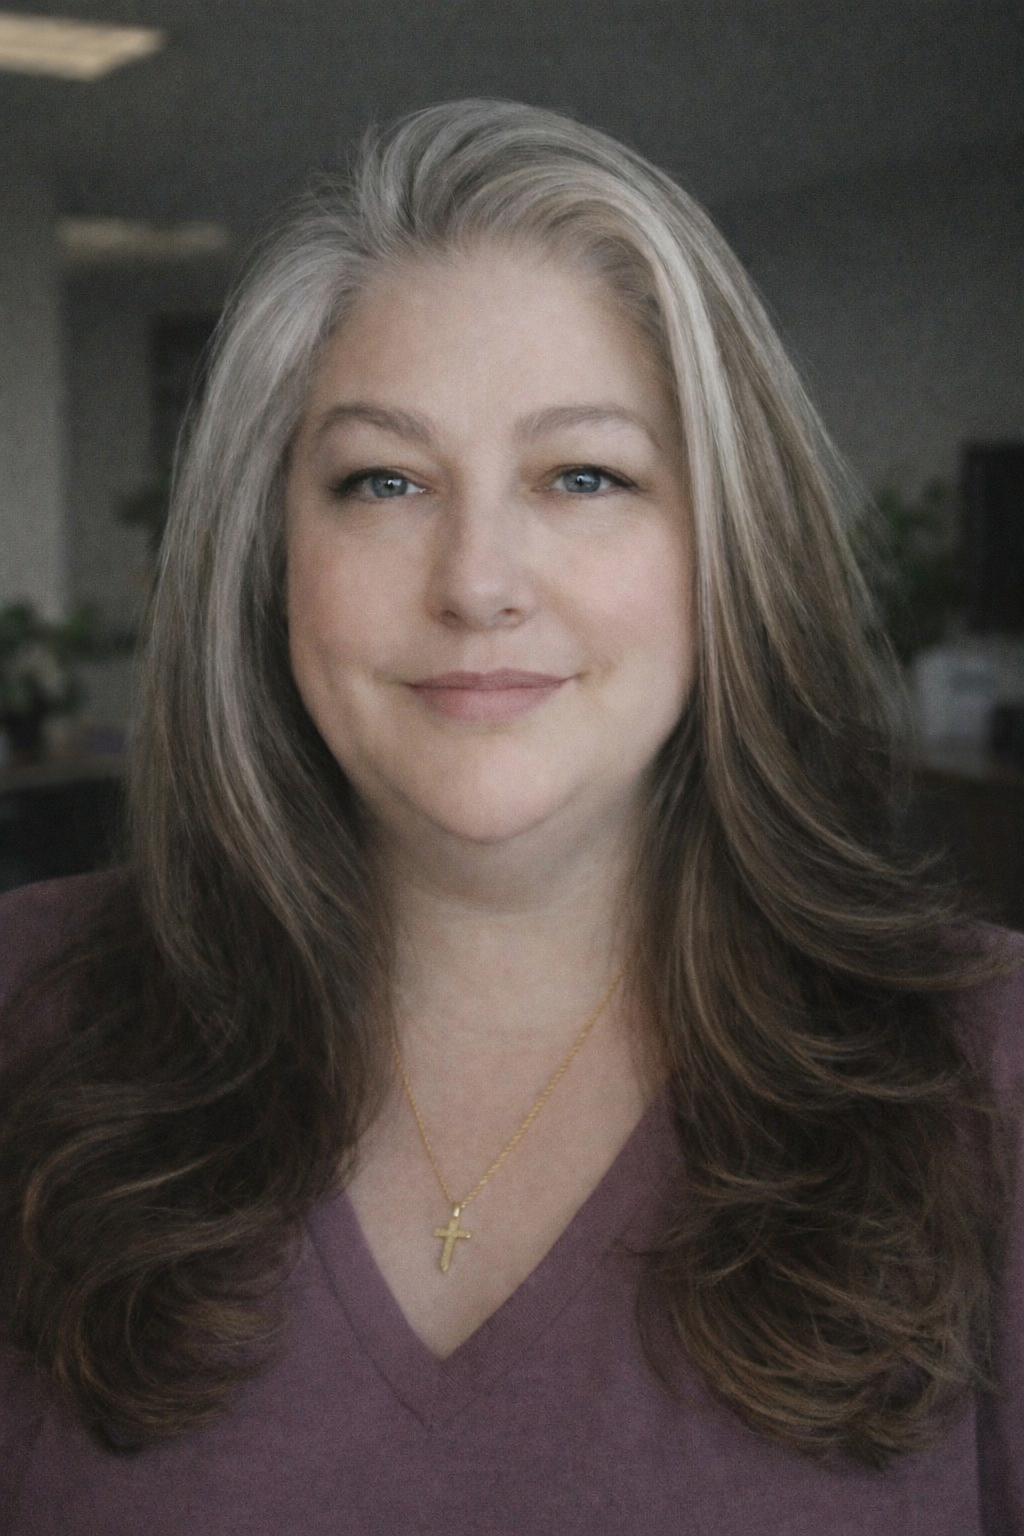
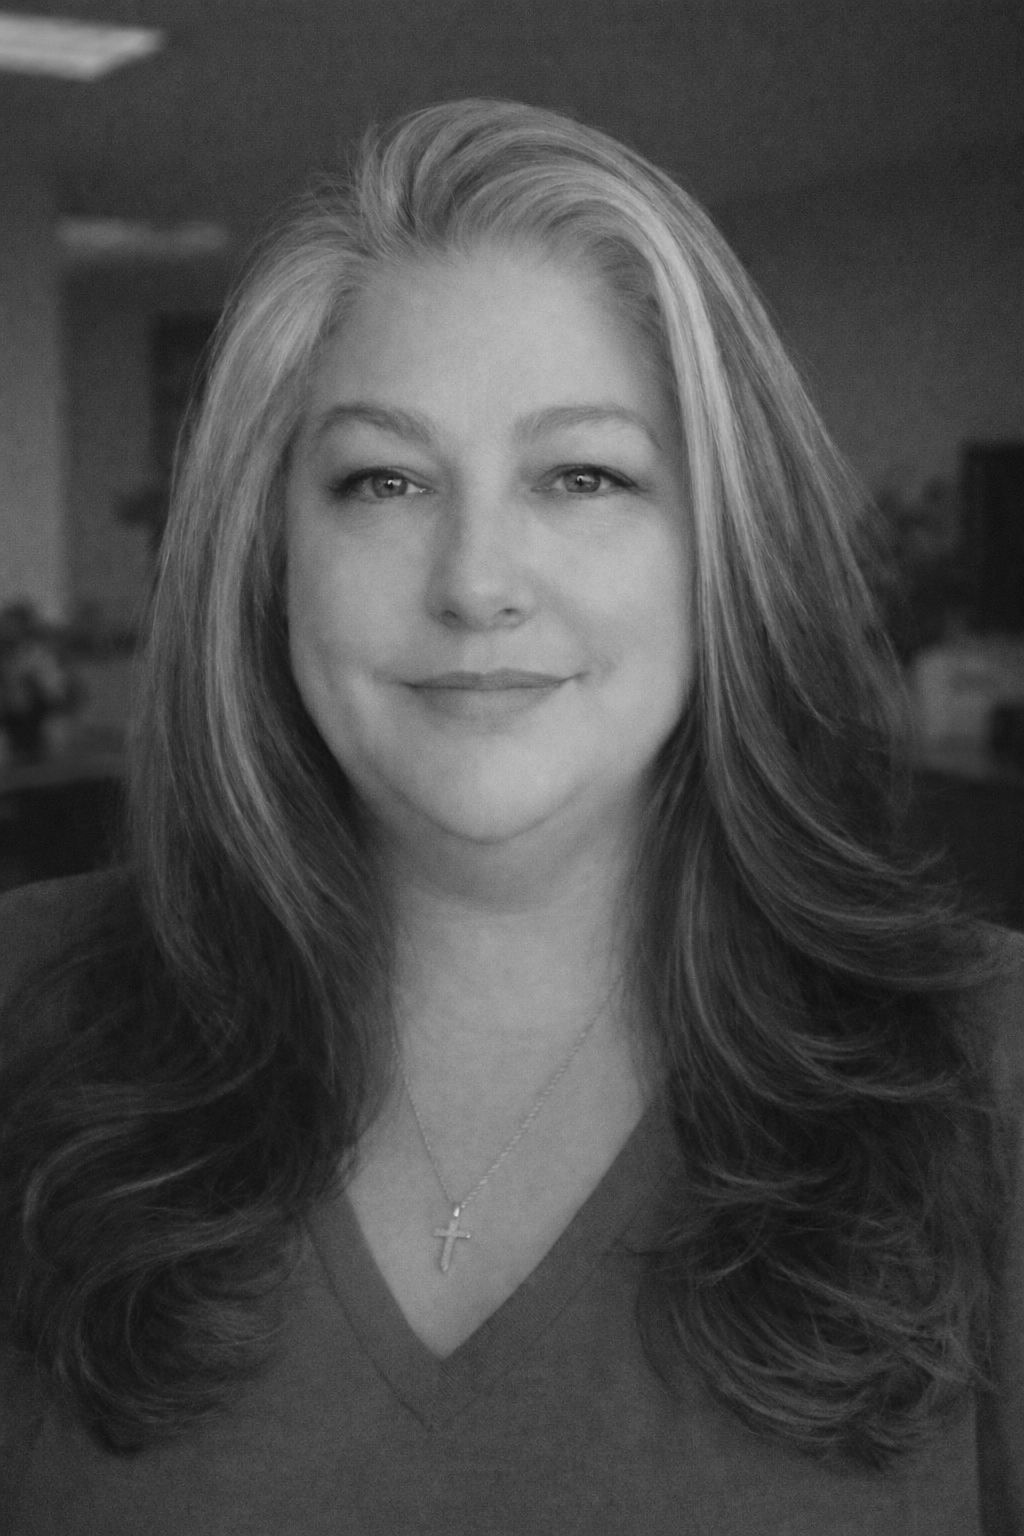
Convert team portraits to black and white
Nisha's new headshot is greyscale; Charlotte's and Christopher's were
colour, which read as a mistake rather than a style. Source files are now
greyscale (and roughly a third smaller), with colour copies kept in
public/assets/team/color-originals/ so this is reversible.

The card also applies a grayscale filter as a backstop, so a colour
headshot added later still matches the row.

diff --git a/components/Team.tsx b/components/Team.tsx
@@ -38,7 +38,10 @@ export default function Team({ bare = false }: TeamProps) {
                   : undefined,
                 transformOrigin: member.imageOrigin,
               }}
-              className="object-cover transition-transform duration-700 ease-lux group-hover:scale-105"
+              /* The source files are already grayscale; the filter is a
+                 backstop so a colour headshot dropped in later still matches
+                 the row instead of standing out. */
+              className="object-cover grayscale transition-transform duration-700 ease-lux group-hover:scale-105"
             />
             <div className="absolute inset-0 bg-gradient-to-t from-plum/85 via-plum/10 to-transparent" />
             <div className="absolute bottom-0 left-0 p-5 pb-8">